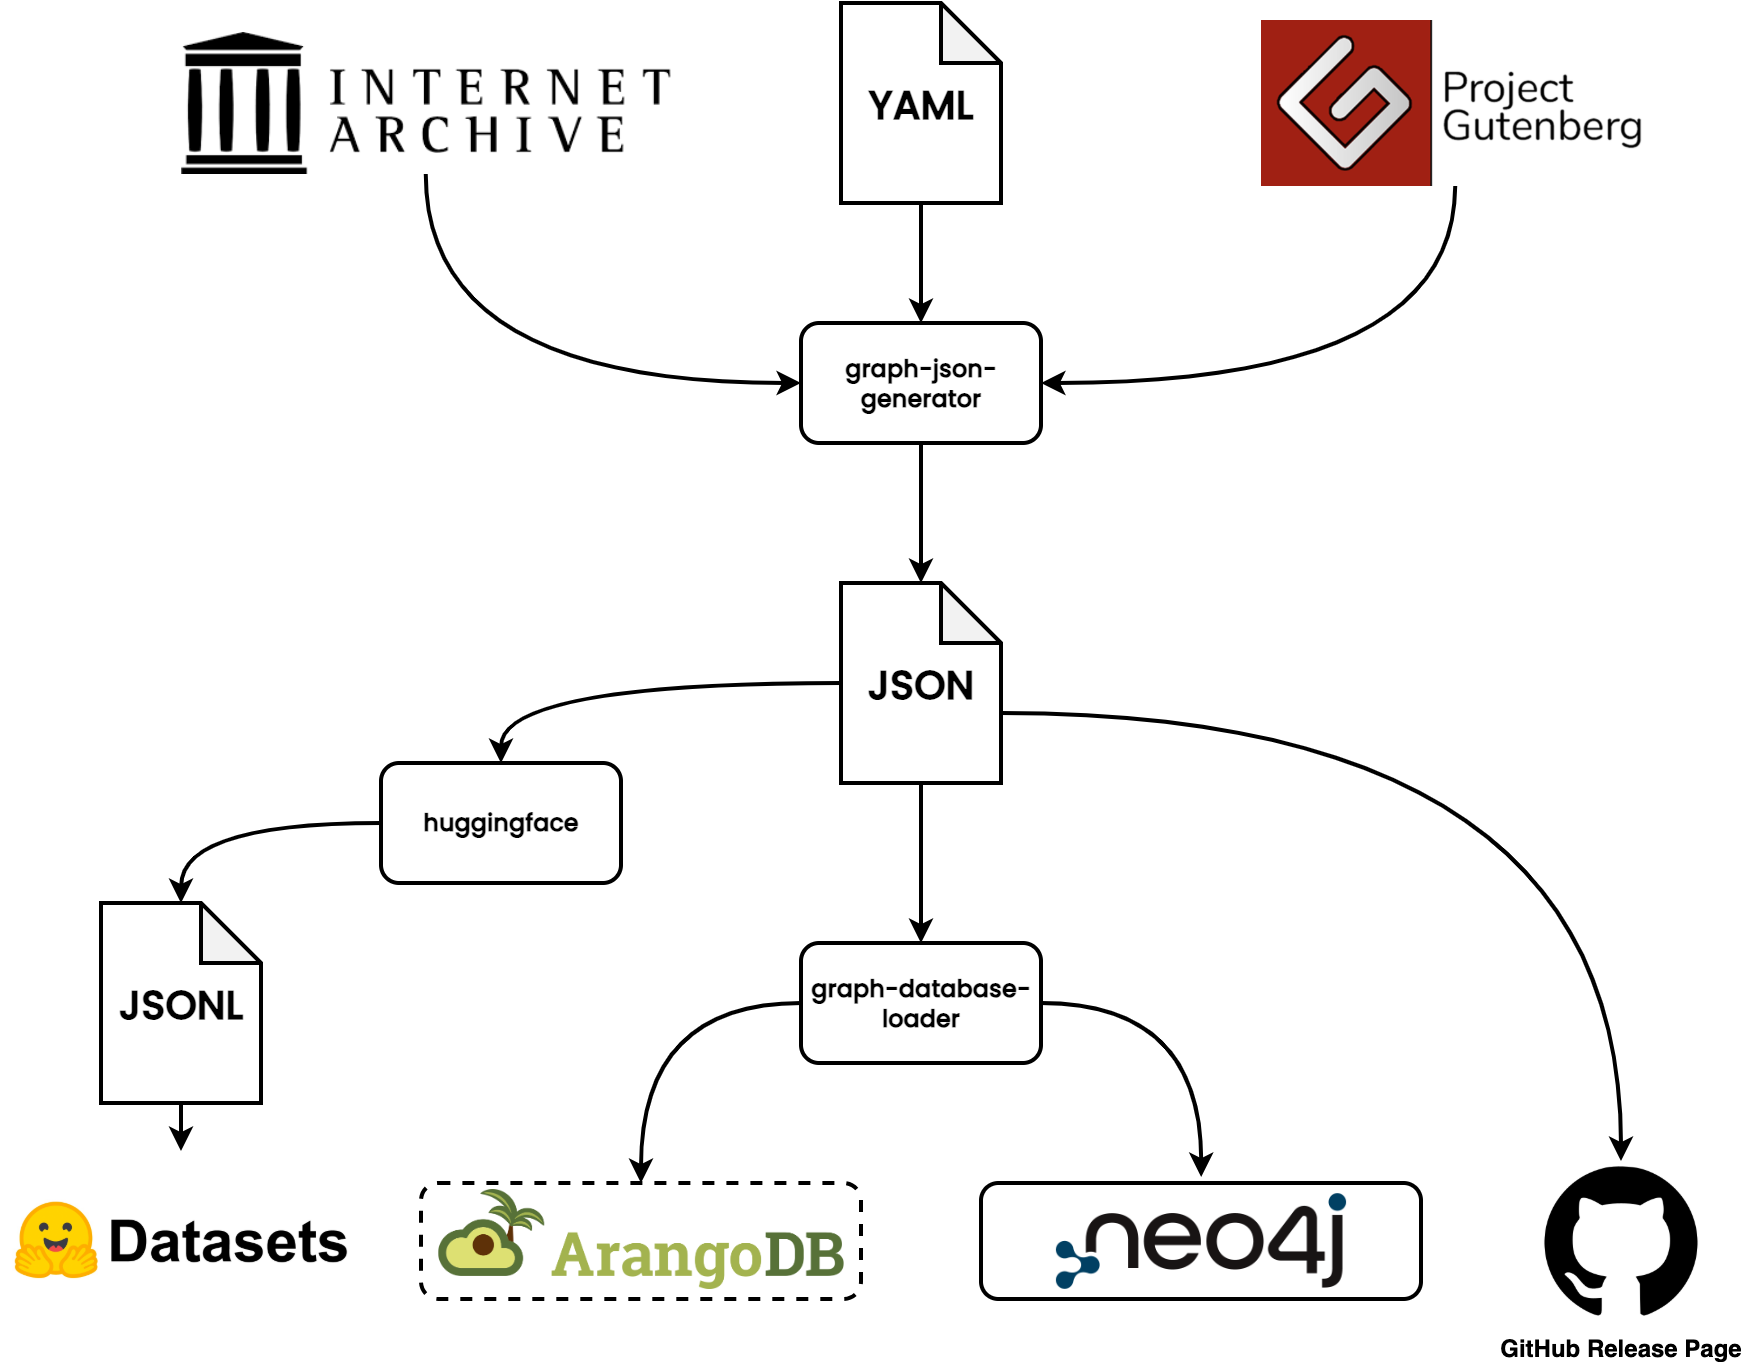
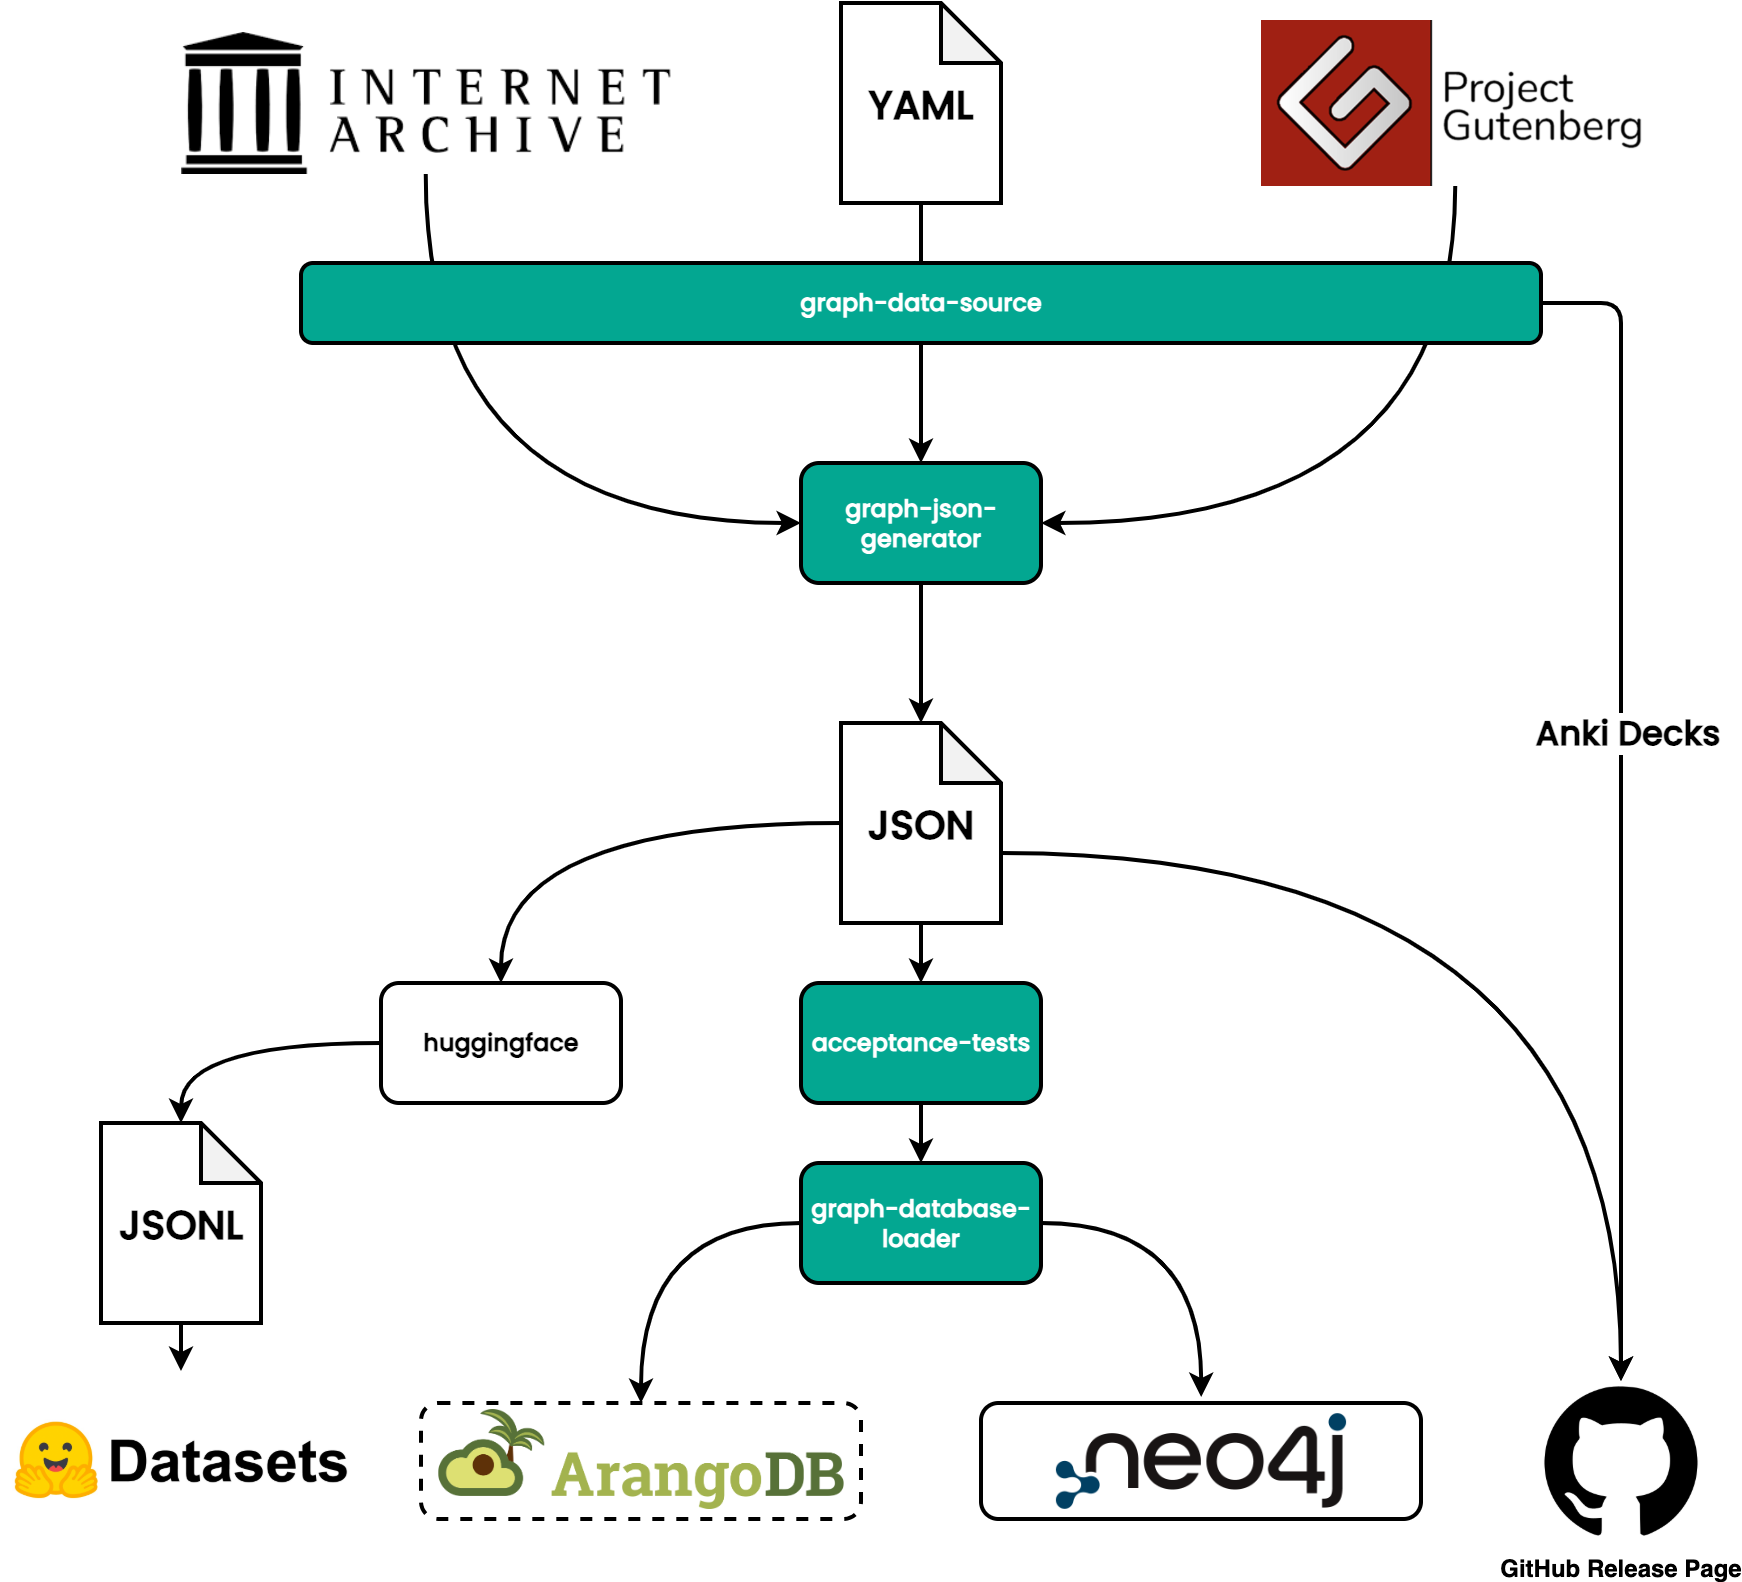
Initiate graph-data-source subproject abstracting away datasource management (#172)

diff --git a/graph-json-generator/generator/generate_all_languages.py b/graph-json-generator/generator/generate_all_languages.py
@@ -20,10 +20,10 @@ from generator import generate
 
 if __name__ == "__main__":
     for yaml_input_file, json_output_file, language in [
-        ("../../latin.yaml", "../latin-graph-data.json", LATIN),
-        ("../../ancient-greek.yaml", "../ancient-greek-graph-data.json", ANCIENT_GREEK)
+        ("../../graph-data-source/latin/latin.yaml", "../latin-graph-data.json", LATIN),
+        ("../../graph-data-source/ancient-greek/ancient-greek.yaml", "../ancient-greek-graph-data.json", ANCIENT_GREEK)
     ]:
         with open(json_output_file, "w", encoding="utf-8") as json_file:
             json.dump(generate(yaml_input_file, language), json_file, ensure_ascii=False, indent=4)
 
-    generate_german.generate("../../german.yaml", "../german-graph-data.json")
+    generate_german.generate("../../graph-data-source/german/german.yaml", "../german-graph-data.json")

diff --git a/graph-data-source/lexitheras/api.py b/graph-data-source/lexitheras/api.py
@@ -1,0 +1,15 @@
+# Copyright 2025 Jiaqi Liu. All rights reserved.
+#
+# Licensed under the Apache License, Version 2.0 (the "License");
+# you may not use this file except in compliance with the License.
+# You may obtain a copy of the License at
+#
+#     https://www.apache.org/licenses/LICENSE-2.0
+#
+# Unless required by applicable law or agreed to in writing, software
+# distributed under the License is distributed on an "AS IS" BASIS,
+# WITHOUT WARRANTIES OR CONDITIONS OF ANY KIND, either express or implied.
+# See the License for the specific language governing permissions and
+# limitations under the License.
+if __name__ == "__main__":
+    pass

diff --git a/graph-data-source/setup.py b/graph-data-source/setup.py
@@ -1,0 +1,17 @@
+from setuptools import find_packages
+from setuptools import setup
+
+setup(
+    name="graph-data-source",
+    version="0.0.1",
+    description="An abstraction layer that ports various data into Antiqua",
+    url="https://github.com/QubitPi/Antiqua/tree/master/graph-data-source",
+    author="Jiaqi Liu",
+    author_email="jack20220723@gmail.com",
+    license="Apache-2.0",
+    packages=find_packages(),
+    python_requires='>=3.10',
+    zip_safe=False,
+    include_package_data=True,
+    test_suite='tests',
+)

diff --git a/graph-json-generator/tests/parser/test_vocabulary_parser.py b/graph-json-generator/tests/parser/test_vocabulary_parser.py
@@ -322,7 +322,8 @@ class TestVocabularyParser(unittest.TestCase):
         ]
 
         for test_case in test_cases:
-            with open("{path}/../../../german.yaml".format(path=DIR_PATH), "r", encoding='utf-8') as f:
+            with open("{path}/../../../graph-data-source/german/german.yaml".format(path=DIR_PATH), "r",
+                      encoding='utf-8') as f:
                 vocabulary = [word for word in yaml.safe_load(f)["vocabulary"] if word["term"] in test_case["words"]]
 
             self.assertEqual(

diff --git a/README.md b/README.md
@@ -20,9 +20,9 @@ _people___. It achieves this by 2 parts:
 
    - in a unified, human-readable, and machine-readable format:
 
-     - [german.yaml](./german.yaml)
-     - [latin.yaml](./latin.yaml)
-     - [ancient-greek.yaml](./ancient-greek.yaml)
+     - [german.yaml](graph-data-source/german/german.yaml)
+     - [latin.yaml](graph-data-source/latin/latin.yaml)
+     - [ancient-greek.yaml](graph-data-source/ancient-greek/ancient-greek.yaml)
 
    - in knowledge graph representation that is [free to download][GitHub release page]
 
@@ -150,12 +150,16 @@ Development
 
 </details>
 
-Antiqua has 3 subprojects, each of which is _independently_ managed by their own
+Antiqua has 4 subprojects, each of which is _independently_ managed by their own
 [setuptools](https://setuptools.pypa.io/en/latest/):
 
-1. [Graph JSON Data Generator](./graph-json-generator)
-2. [Graph Database Loader](./graph-database-loader)
-3. [Antiqua Acceptance Framework](./acceptance-tests)
+1. [Graph Data Source](./graph-data-source)
+2. [Graph JSON Data Generator](./graph-json-generator)
+3. [Graph Database Loader](./graph-database-loader)
+4. [Antiqua Acceptance Framework](./acceptance-tests)
+
+The logical co-working of these subprojects are depicted below. Please refer to
+[![DeepWiki badge]][DeepWiki URL] for more tech details about these subprojects.
 
 ![](./docs/logical-diagram.png)
 
@@ -180,8 +184,6 @@ Antiqua has 3 subprojects, each of which is _independently_ managed by their own
 >   at the root directory of Antiqua project.
 >
 > - [PEP 8 config](./setup.cfg) using [pycodestyle](https://pycodestyle.pycqa.org/en/latest/intro.html)
->
-> Please refer to [![DeepWiki badge]][DeepWiki URL] for more tech details about these subprojects.
 
 ### Getting Source Codes
 
@@ -255,9 +257,9 @@ The raw data is written in YAML format, because
 
 The YAML data files are
 
-- [german.yaml](./german.yaml)
-- [latin.yaml](./latin.yaml)
-- [ancient-greek.yaml](./ancient-greek.yaml)
+- [german.yaml](graph-data-source/german/german.yaml)
+- [latin.yaml](graph-data-source/latin/latin.yaml)
+- [ancient-greek.yaml](graph-data-source/ancient-greek/ancient-greek.yaml)
 
 ### Encoding Table in YAML
 
@@ -380,7 +382,7 @@ the German noun "[Ecke](https://en.wiktionary.org/wiki/Ecke#Noun)" has at least 
 
 ### Languages
 
-#### [German](./german.yaml)
+#### [German](graph-data-source/german/german.yaml)
 
 ##### Pronoun
 
@@ -521,7 +523,7 @@ For example:
 > Note that the `verbformen` might not exist for some verbs and any of its sub-fields can be non-existing due to the
 > limiting number of verbs on records from [verbformen.com]
 
-#### [Ancient Greek](./ancient-greek.yaml)
+#### [Ancient Greek](graph-data-source/ancient-greek/ancient-greek.yaml)
 
 Unless otherwise mentioned, we are always talking about _Attic_ Greek.
 
@@ -833,7 +835,7 @@ For example:
         - https://koine-greek.fandom.com/wiki/Λέγω
 ```
 
-#### [Latin](./latin.yaml)
+#### [Latin](graph-data-source/latin/latin.yaml)
 
 > [!NOTE]
 > The vocabulary and declensions come from the following sources
